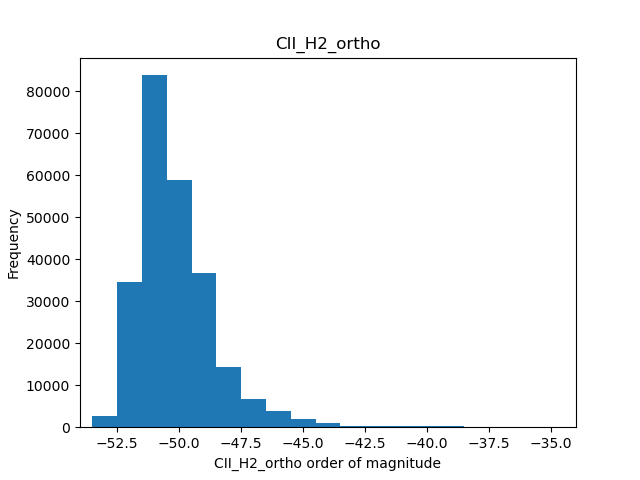
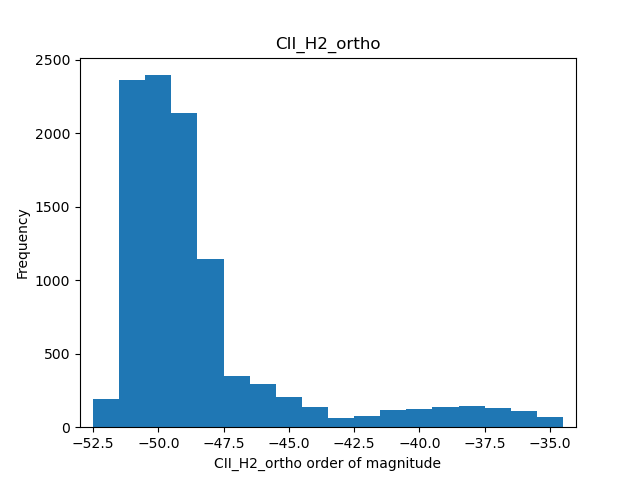
bugfix

diff --git a/tools/raziq_croc.py b/tools/raziq_croc.py
@@ -9,18 +9,22 @@ def make_slice_plot(dataset,list_or_array,full_box=False):
         ratio = maximum/minimum
 #        print(p+"_"+str(ratio))
         if ratio < 100:
-            if full_box = True:
+            if full_box == True:
                 slc = yt.SlicePlot(ds, 'z',p)
-            elif full_box = False:
+            elif full_box == False:
                 slc = yt.SlicePlot(ds, 'z',p,data_source = dataset)
             else:
                 raise ValueError("full_box must be either True or False")
            
             slc.set_log(p, False)
-            slc.save("../SlicePlots/"+ p + '_sliceplot.png')
         else: 
-            slc = yt.SlicePlot(ds, 'z',p)
-            slc.save("../SlicePlots/"+ p + '_sliceplot.png')
+            if full_box == True:
+                slc = yt.SlicePlot(ds, 'z',p)
+            elif full_box == False:
+                slc = yt.SlicePlot(ds, 'z',p,data_source = dataset)
+            else:
+                raise ValueError("full_box must be either True or False")
+        slc.save("../SlicePlots/"+ p + '_sliceplot.png')
 
 def make_histogram_slice(dataset,list_or_array):
 
@@ -50,7 +54,7 @@ def make_histogram_slice(dataset,list_or_array):
 
 ds = yt.load("~/Data/rei20c1_a0.1667/rei20c1_a0.1667.art")
 
-all_data_at_z_0 = ds.r[:,:,0]
+#all_data_at_z_0 = ds.r[:,:,0]
 
 #plot_list = ['HI number density','HII number density','HeI number density','HeII number density','HeIII number density','log_dust_attenuation','rCIIe','rCIIa','CII_e_cooling','CII_a_cooling', 'CII_HeI_cooling', 'CII_CMB_emission','CII_H2_ortho', 'CII_H2_para']
 plot_list = ['CII_H2_ortho', 'CII_H2_para']
@@ -59,7 +63,7 @@ plot_list = ['CII_H2_ortho', 'CII_H2_para']
 
 #make_histogram_slice(all_data_at_z_0,plot_list)
 
-halo_table = Table.read('~/Data/halo_catalogs/out_14.list',format = "ascii.commented_header")
+halo_table = Table.read('/home/rnoorali/Data/halo_catalogs/out_14.list',format = "ascii.commented_header")
 
 halo_table.add_index('Mvir')
 
@@ -74,3 +78,4 @@ r = largest_mass['Rvir']*a/h
 sphere = ds.sphere([x, y, z],(2*r, "kpc"))
 
 make_slice_plot(sphere,plot_list)
+make_histogram_slice(sphere,plot_list)
